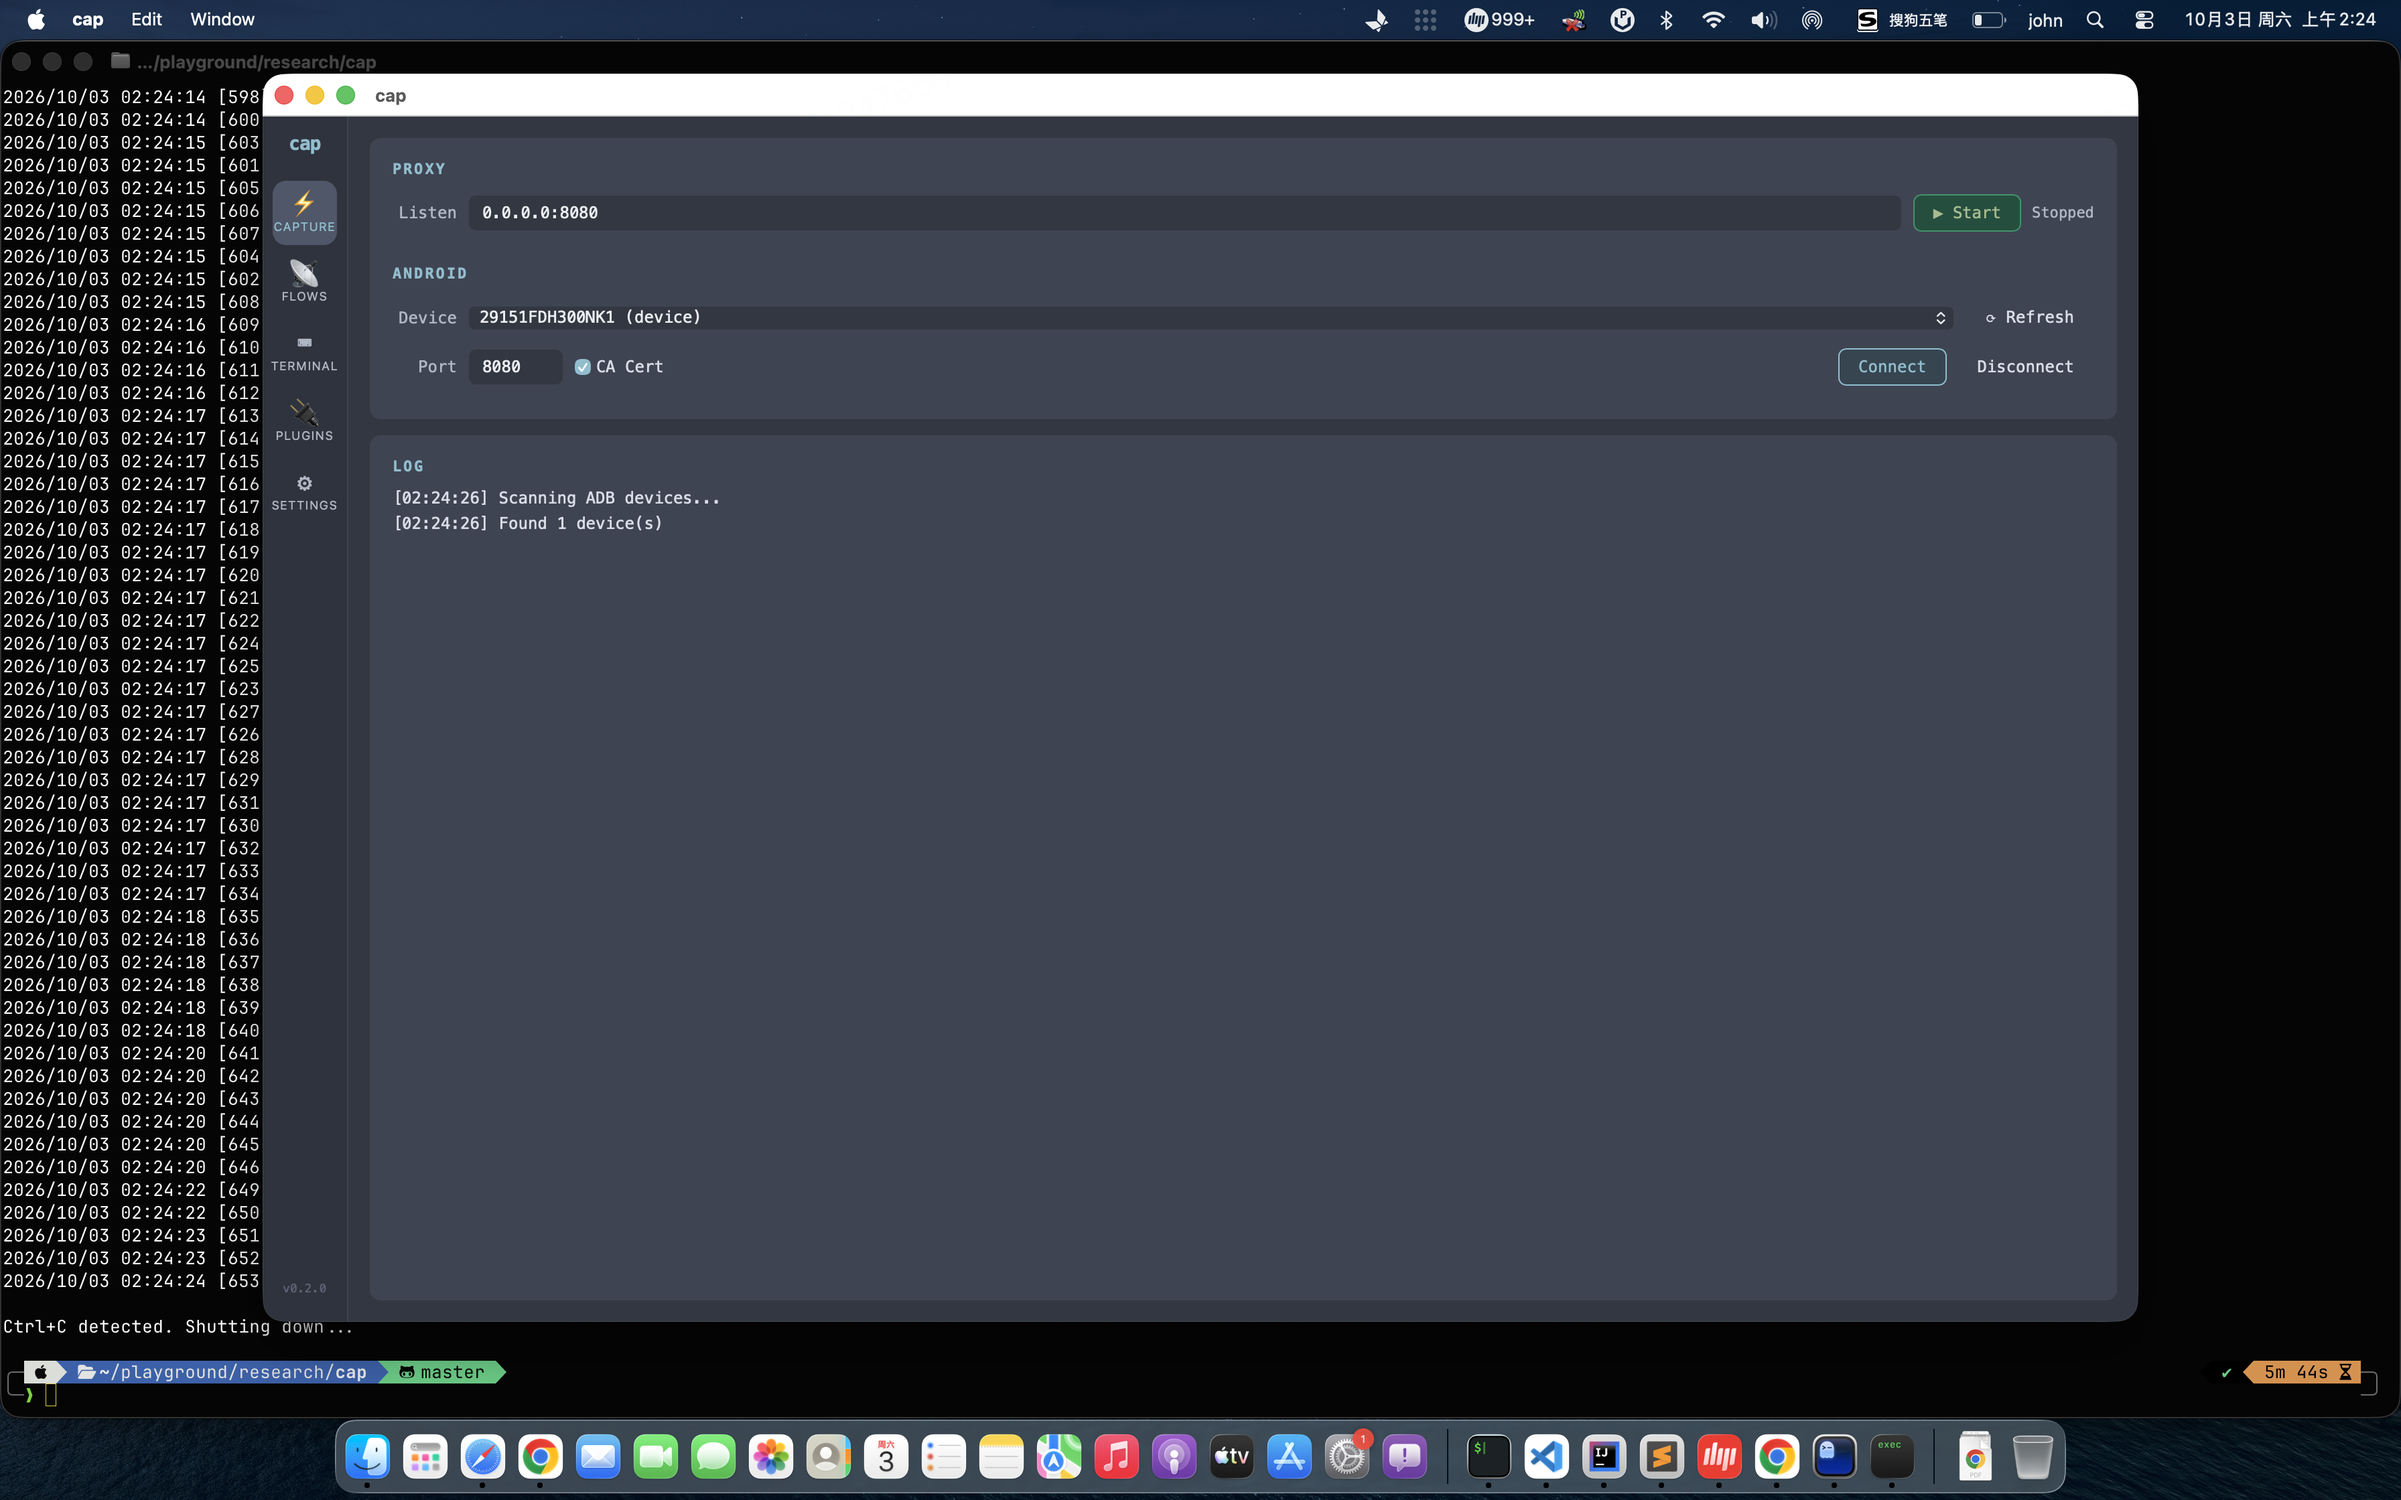
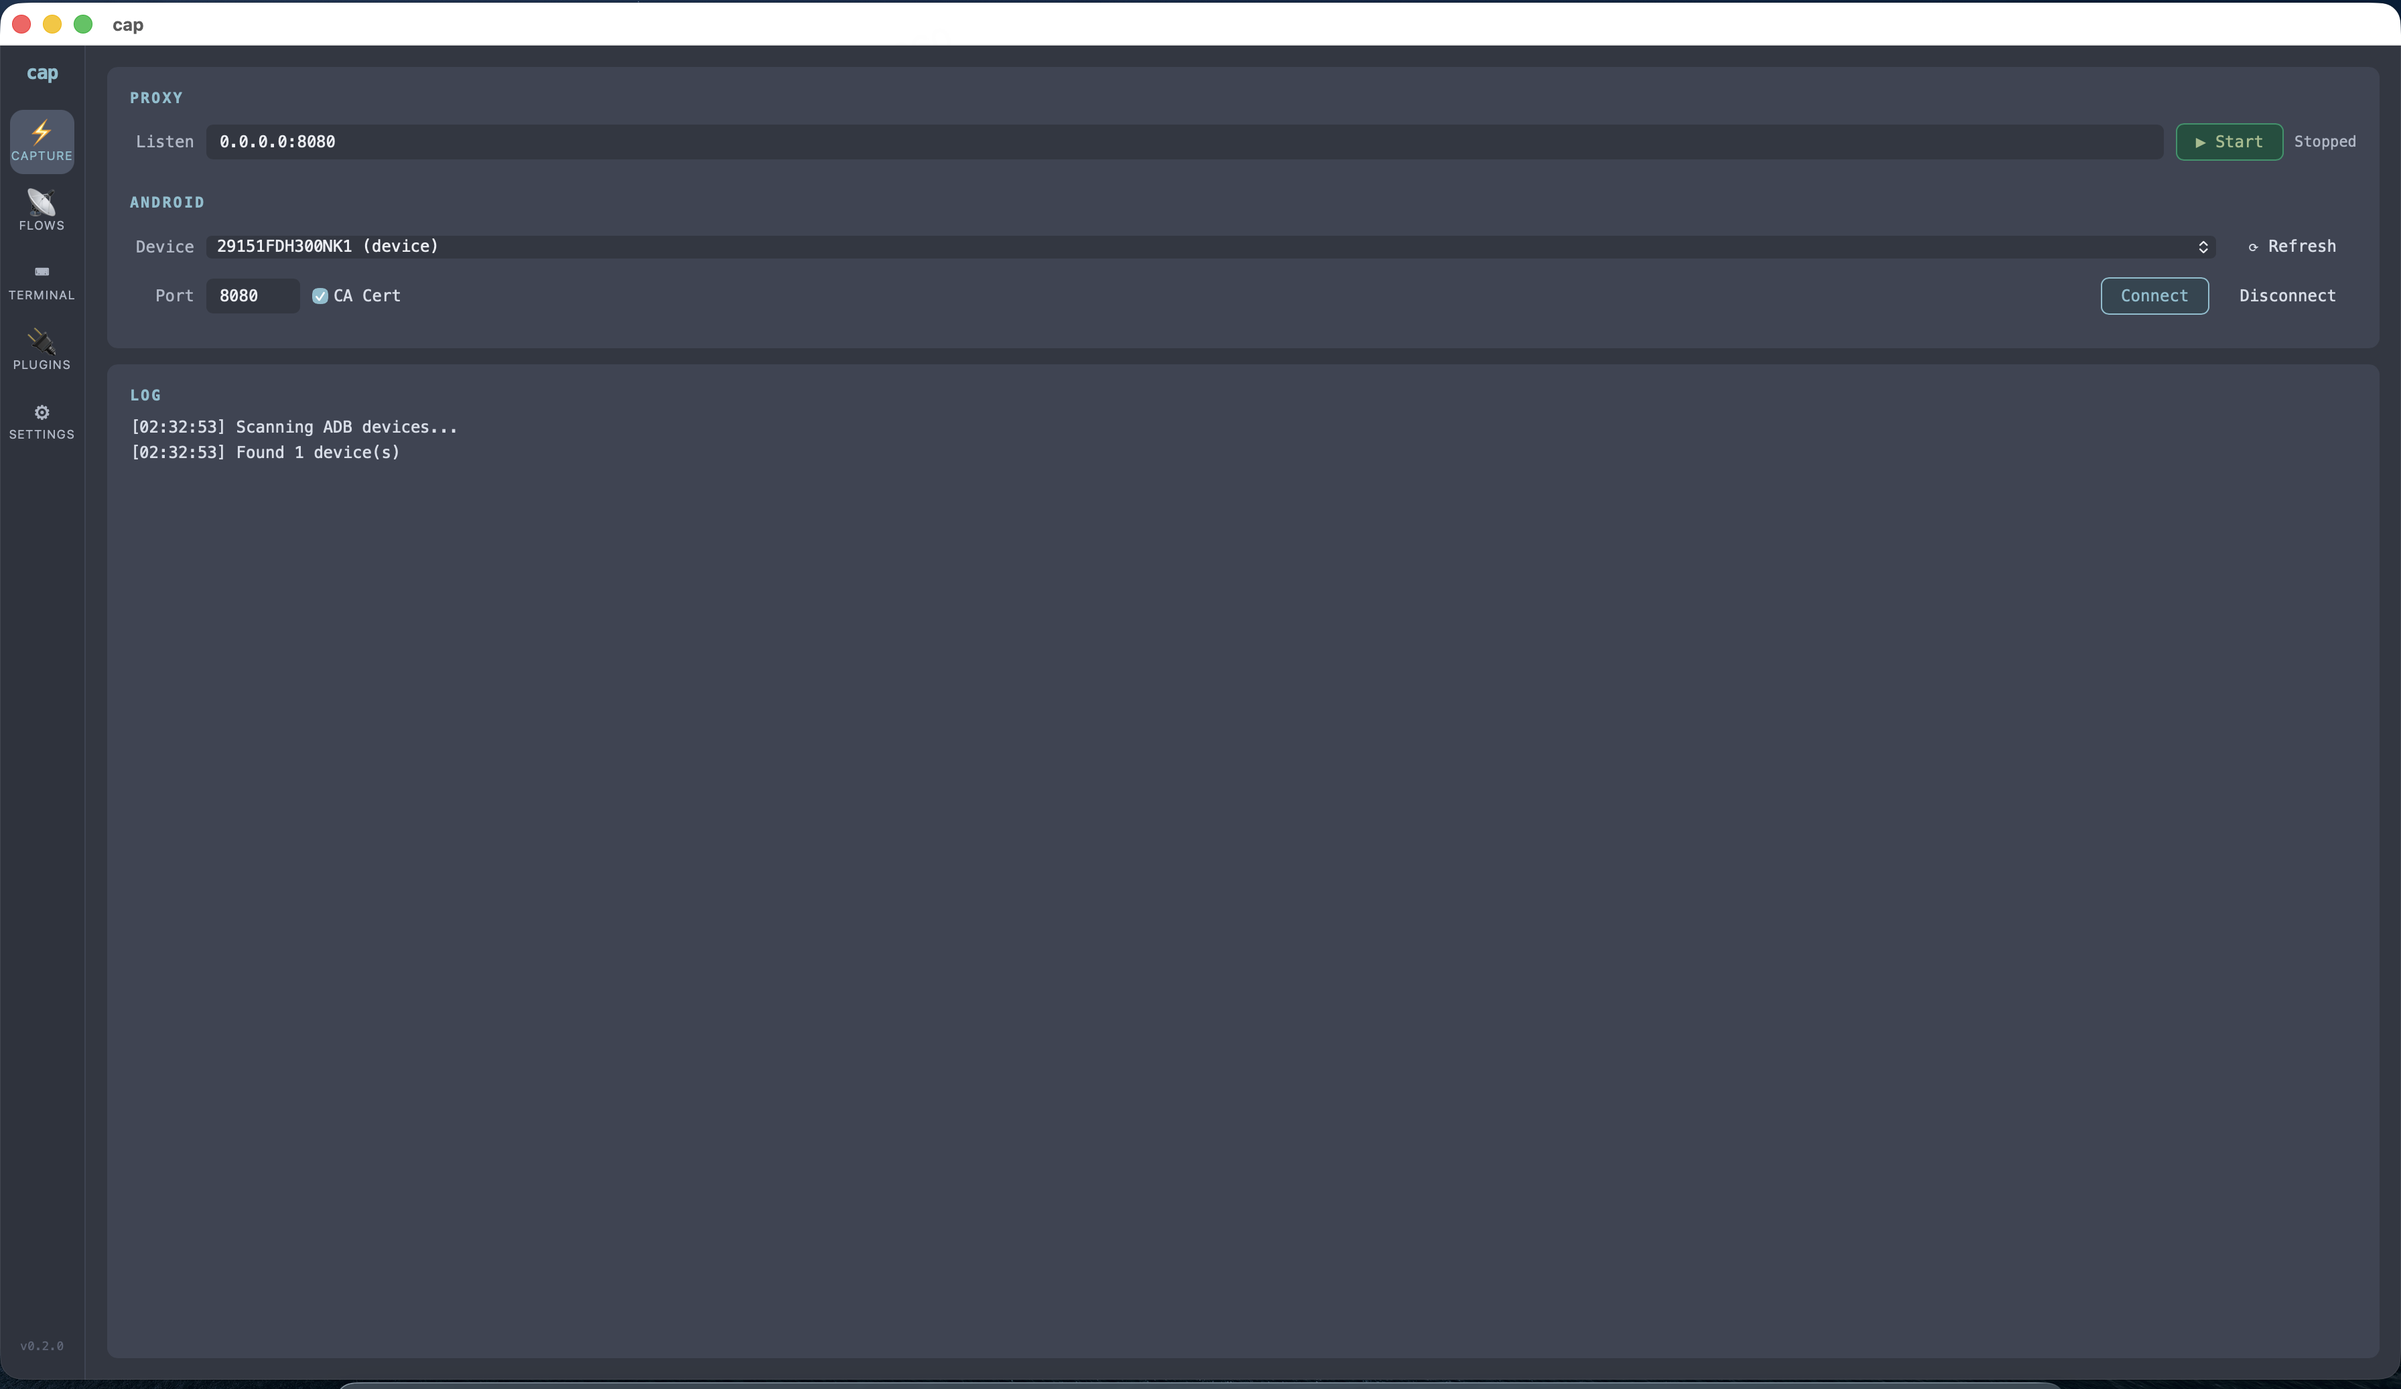
docs: clean screenshots + updated Pages with full feature matrix
- Capture screenshot: maximized, no sensitive info
- Flows screenshot: clean crop, no browser remnants
- GitHub Pages: EN/CN tables updated with all 20 features
- CN features section: 9 new feature cards added
- Fyne → Wails+Svelte in all Pages references

Claude-Session: https://claude.ai/code/session_013mHHPskzsELe9cB5j8F921

diff --git a/docs/index.html b/docs/index.html
@@ -115,14 +115,22 @@ footer { background: var(--code-bg); padding: 32px 20px; text-align: center; col
     <table>
       <tr><th>Capability</th><th>Burp Suite</th><th>mitmproxy</th><th>HTTP Toolkit</th><th>cap</th></tr>
       <tr><td>CLI Automation</td><td class="cross">✗</td><td class="check">✓</td><td class="cross">✗</td><td class="check"><b>✓</b></td></tr>
-      <tr><td>Native GUI</td><td class="cross">Java</td><td class="partial">△ basic</td><td class="partial">Electron</td><td class="check"><b>Fyne native</b></td></tr>
+      <tr><td>Native GUI</td><td class="cross">Java</td><td class="partial">△ basic</td><td class="partial">Electron</td><td class="check"><b>Wails + Svelte</b></td></tr>
       <tr><td>LLM/Agent Output</td><td class="cross">XML</td><td class="partial">HAR</td><td class="partial">HAR</td><td class="check"><b>Compact JSONL</b></td></tr>
       <tr><td>Multi-lang Codegen</td><td class="cross">✗</td><td class="partial">curl+py</td><td class="cross">✗</td><td class="check"><b>5 languages</b></td></tr>
       <tr><td>Sign Detection</td><td class="cross">✗</td><td class="cross">✗</td><td class="cross">✗</td><td class="check"><b>✓ auto</b></td></tr>
       <tr><td>Sign Inference</td><td class="cross">✗</td><td class="cross">✗</td><td class="cross">✗</td><td class="check"><b>MD5/SHA/HMAC</b></td></tr>
       <tr><td>Source Mapping</td><td class="cross">✗</td><td class="cross">✗</td><td class="cross">✗</td><td class="check"><b>jadx → URL</b></td></tr>
       <tr><td>Android Setup</td><td class="cross">manual</td><td class="cross">manual</td><td class="partial">app</td><td class="check"><b>ADB direct</b></td></tr>
-      <tr><td>Embedded Terminal</td><td class="cross">✗</td><td class="cross">✗</td><td class="cross">✗</td><td class="check"><b>multi-tab PTY</b></td></tr>
+      <tr><td>Request Replay</td><td class="check">Repeater</td><td class="cross">✗</td><td class="cross">✗</td><td class="check"><b>✓ + modify</b></td></tr>
+      <tr><td>API Auto-Grouping</td><td class="cross">✗</td><td class="cross">✗</td><td class="cross">✗</td><td class="check"><b>host + path</b></td></tr>
+      <tr><td>Flow Comparison</td><td class="cross">✗</td><td class="cross">✗</td><td class="cross">✗</td><td class="check"><b>side-by-side</b></td></tr>
+      <tr><td>Sequence Replay</td><td class="cross">✗</td><td class="cross">✗</td><td class="cross">✗</td><td class="check"><b>token propagation</b></td></tr>
+      <tr><td>Protobuf Decode</td><td class="cross">✗</td><td class="partial">addon</td><td class="cross">✗</td><td class="check"><b>schema-less</b></td></tr>
+      <tr><td>Traffic Dashboard</td><td class="cross">✗</td><td class="cross">✗</td><td class="cross">✗</td><td class="check"><b>P95 / timeline</b></td></tr>
+      <tr><td>HAR/Charles Import</td><td class="check">✓</td><td class="check">✓</td><td class="check">✓</td><td class="check"><b>✓</b></td></tr>
+      <tr><td>Plugin System</td><td class="check">BApp</td><td class="check">addon</td><td class="cross">✗</td><td class="check"><b>live editor</b></td></tr>
+      <tr><td>Embedded Terminal</td><td class="cross">✗</td><td class="cross">✗</td><td class="cross">✗</td><td class="check"><b>multi-tab</b></td></tr>
       <tr><td>Open Source</td><td class="cross">$449/yr</td><td class="check">✓</td><td class="partial">core</td><td class="check"><b>MIT</b></td></tr>
     </table>
   </div>
@@ -236,14 +244,22 @@ cap gui</code></pre>
     <table>
       <tr><th>能力</th><th>Burp Suite</th><th>mitmproxy</th><th>HTTP Toolkit</th><th>cap</th></tr>
       <tr><td>CLI 自动化</td><td class="cross">✗ 纯GUI</td><td class="check">✓</td><td class="cross">✗</td><td class="check"><b>✓</b></td></tr>
-      <tr><td>原生 GUI</td><td class="cross">Java</td><td class="partial">△ 简陋</td><td class="partial">Electron</td><td class="check"><b>Fyne 原生</b></td></tr>
+      <tr><td>桌面 GUI</td><td class="cross">Java</td><td class="partial">△ 简陋</td><td class="partial">Electron</td><td class="check"><b>Wails + Svelte</b></td></tr>
       <tr><td>LLM 友好输出</td><td class="cross">XML</td><td class="partial">HAR</td><td class="partial">HAR</td><td class="check"><b>精简 JSONL</b></td></tr>
       <tr><td>多语言代码生成</td><td class="cross">✗</td><td class="partial">curl+py</td><td class="cross">✗</td><td class="check"><b>5 种语言</b></td></tr>
       <tr><td>签名自动识别</td><td class="cross">✗</td><td class="cross">✗</td><td class="cross">✗</td><td class="check"><b>✓ 自动</b></td></tr>
       <tr><td>签名算法推理</td><td class="cross">✗</td><td class="cross">✗</td><td class="cross">✗</td><td class="check"><b>MD5/SHA/HMAC</b></td></tr>
       <tr><td>源码映射</td><td class="cross">✗</td><td class="cross">✗</td><td class="cross">✗</td><td class="check"><b>jadx → URL</b></td></tr>
       <tr><td>Android 连接</td><td class="cross">手动</td><td class="cross">手动</td><td class="partial">需装 App</td><td class="check"><b>ADB 直连</b></td></tr>
-      <tr><td>内嵌终端</td><td class="cross">✗</td><td class="cross">✗</td><td class="cross">✗</td><td class="check"><b>多 Tab PTY</b></td></tr>
+      <tr><td>请求重放</td><td class="check">Repeater</td><td class="cross">✗</td><td class="cross">✗</td><td class="check"><b>✓ + 改参</b></td></tr>
+      <tr><td>API 自动分组</td><td class="cross">✗</td><td class="cross">✗</td><td class="cross">✗</td><td class="check"><b>host + 路径</b></td></tr>
+      <tr><td>流量对比</td><td class="cross">✗</td><td class="cross">✗</td><td class="cross">✗</td><td class="check"><b>并排 Diff</b></td></tr>
+      <tr><td>序列回放</td><td class="cross">✗</td><td class="cross">✗</td><td class="cross">✗</td><td class="check"><b>Token 传递</b></td></tr>
+      <tr><td>Protobuf 解码</td><td class="cross">✗</td><td class="partial">插件</td><td class="cross">✗</td><td class="check"><b>无 Schema</b></td></tr>
+      <tr><td>流量仪表盘</td><td class="cross">✗</td><td class="cross">✗</td><td class="cross">✗</td><td class="check"><b>P95 / 时间线</b></td></tr>
+      <tr><td>HAR/Charles 导入</td><td class="check">✓</td><td class="check">✓</td><td class="check">✓</td><td class="check"><b>✓</b></td></tr>
+      <tr><td>插件系统</td><td class="check">BApp</td><td class="check">addon</td><td class="cross">✗</td><td class="check"><b>实时编辑器</b></td></tr>
+      <tr><td>内嵌终端</td><td class="cross">✗</td><td class="cross">✗</td><td class="cross">✗</td><td class="check"><b>多 Tab</b></td></tr>
       <tr><td>开源免费</td><td class="cross">$449/年</td><td class="check">✓</td><td class="partial">核心开源</td><td class="check"><b>MIT</b></td></tr>
     </table>
   </div>
@@ -261,7 +277,15 @@ cap gui</code></pre>
       <div class="feature"><h3>源码映射</h3><p>扫描 jadx 反编译产物，把 URL 映射到 Java 源码文件和方法名。</p></div>
       <div class="feature"><h3>请求重放</h3><p>选中请求一键重发，支持修改参数，Diff 对比原始和重放响应。</p></div>
       <div class="feature"><h3>WebSocket & SSE</h3><p>抓取 WebSocket 帧和 SSE 流，和 HTTP 请求一起展示。</p></div>
-      <div class="feature"><h3>内嵌终端</h3><p>GUI 内多 Tab PTY 终端，执行 adb/frida/curl 不用切窗口。</p></div>
+      <div class="feature"><h3>内嵌终端</h3><p>GUI 内多 Tab 终端，执行 adb/frida/curl 不用切窗口。</p></div>
+      <div class="feature"><h3>请求重放</h3><p>一键重放请求，支持修改 URL/Header/Body 后重发，Diff 对比响应差异。</p></div>
+      <div class="feature"><h3>API 自动分组</h3><p>按 host + 路径前缀自动聚合，一眼看清目标 App 的 API 结构。</p></div>
+      <div class="feature"><h3>流量对比</h3><p>选两个请求并排 Diff：URL、Header、JSON Body 键级对比、延迟变化百分比。</p></div>
+      <div class="feature"><h3>序列回放</h3><p>录制操作流程（登录→取数据→提交），一键重放自动传递 Token/Cookie。</p></div>
+      <div class="feature"><h3>Protobuf 解码</h3><p>无 Schema 解码 — 自动检测并解析二进制 Protobuf 响应，无需 .proto 文件。</p></div>
+      <div class="feature"><h3>流量仪表盘</h3><p>聚合统计：按域名/状态码/方法、P95 延迟、错误率、最慢端点、分钟时间线。</p></div>
+      <div class="feature"><h3>插件系统</h3><p>内置代码编辑器 + 3 个示例插件，现写现测试、保存、开关控制。</p></div>
+      <div class="feature"><h3>HAR 导入</h3><p>导入 HAR 和 Charles XML 文件，零迁移成本。</p></div>
     </div>
   </div>
 </section>
